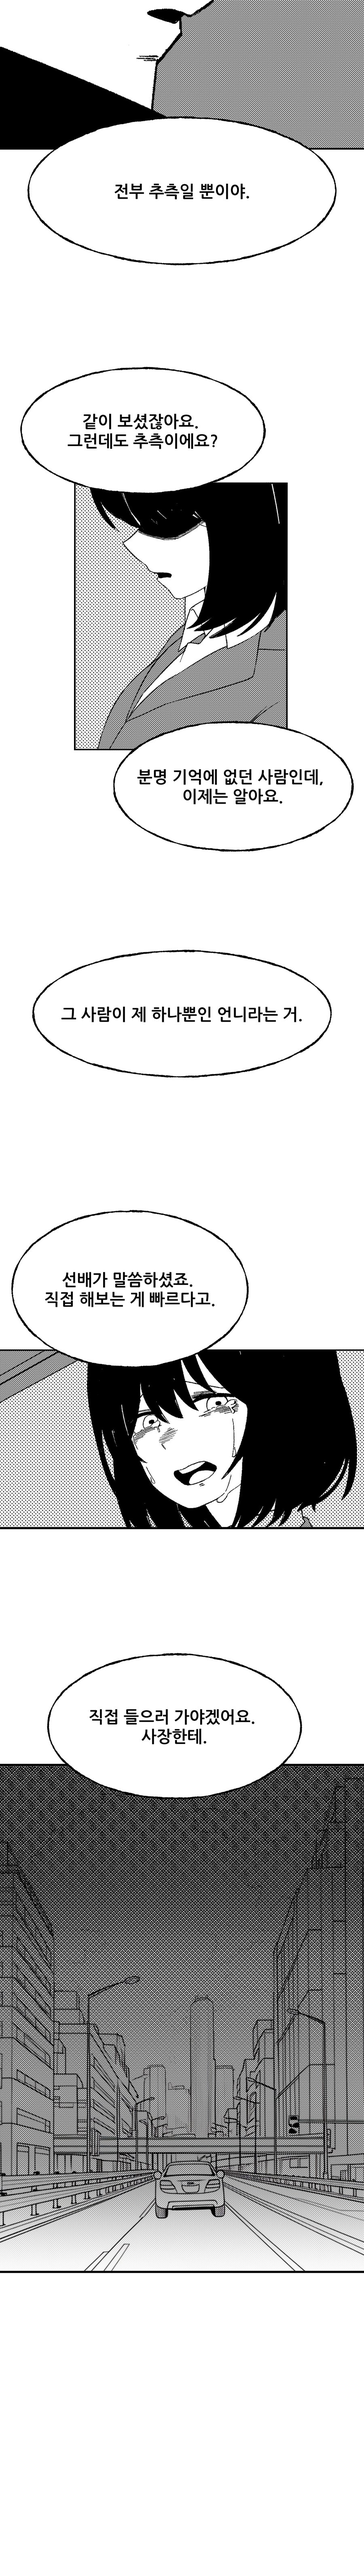
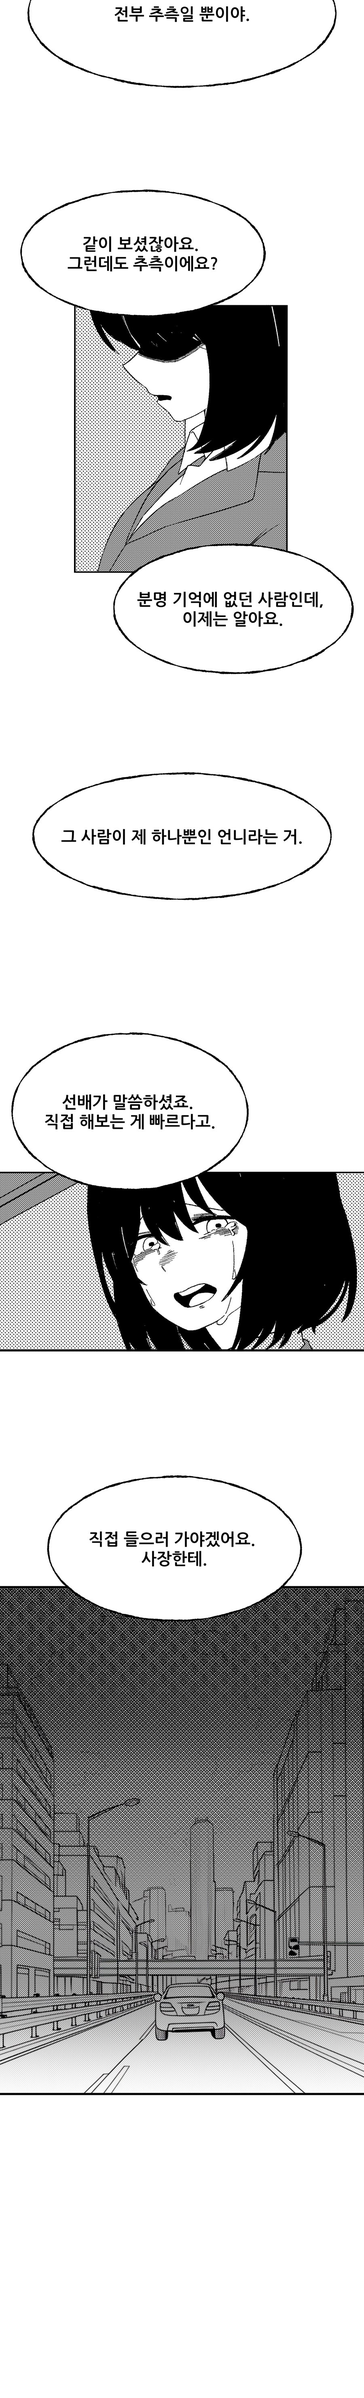
2화 재수정본 반영 (03~11번)
Claude-Session: https://claude.ai/code/session_01V93N5TxUihiwZLPCn8BykJ

diff --git a/ep2.html b/ep2.html
@@ -48,15 +48,15 @@
     <div class="strip">
       <img src="images/ep2/01.jpg?v=11284264" alt="2화 원고 1" loading="lazy">
       <img src="images/ep2/02.jpg?v=b857c288" alt="2화 원고 2" loading="lazy">
-      <img src="images/ep2/03.jpg?v=f7eded55" alt="2화 원고 3" loading="lazy">
-      <img src="images/ep2/04.jpg?v=c1a94417" alt="2화 원고 4" loading="lazy">
-      <img src="images/ep2/05.jpg?v=a21ee89a" alt="2화 원고 5" loading="lazy">
-      <img src="images/ep2/06.jpg?v=d8dd568e" alt="2화 원고 6" loading="lazy">
-      <img src="images/ep2/07.jpg?v=a958ac03" alt="2화 원고 7" loading="lazy">
-      <img src="images/ep2/08.jpg?v=c1611bea" alt="2화 원고 8" loading="lazy">
-      <img src="images/ep2/09.jpg?v=f0429604" alt="2화 원고 9" loading="lazy">
-      <img src="images/ep2/10.jpg?v=b0c39b81" alt="2화 원고 10" loading="lazy">
-      <img src="images/ep2/11.jpg?v=d2e451d4" alt="2화 원고 11" loading="lazy">
+      <img src="images/ep2/03.jpg?v=cf47ffc8" alt="2화 원고 3" loading="lazy">
+      <img src="images/ep2/04.jpg?v=391abb2c" alt="2화 원고 4" loading="lazy">
+      <img src="images/ep2/05.jpg?v=bc5159a3" alt="2화 원고 5" loading="lazy">
+      <img src="images/ep2/06.jpg?v=897f5c7a" alt="2화 원고 6" loading="lazy">
+      <img src="images/ep2/07.jpg?v=1a42b93b" alt="2화 원고 7" loading="lazy">
+      <img src="images/ep2/08.jpg?v=4c18aeda" alt="2화 원고 8" loading="lazy">
+      <img src="images/ep2/09.jpg?v=31d0f3aa" alt="2화 원고 9" loading="lazy">
+      <img src="images/ep2/10.jpg?v=6bdbd6c1" alt="2화 원고 10" loading="lazy">
+      <img src="images/ep2/11.jpg?v=0f0964c3" alt="2화 원고 11" loading="lazy">
     </div>
 
     <div class="pager">
